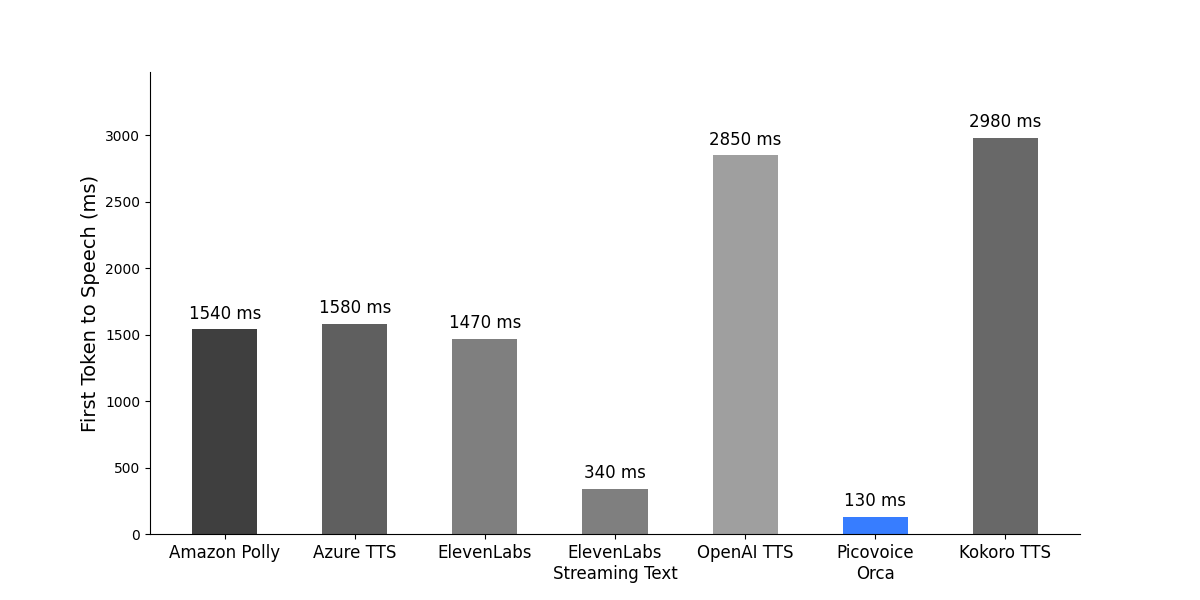
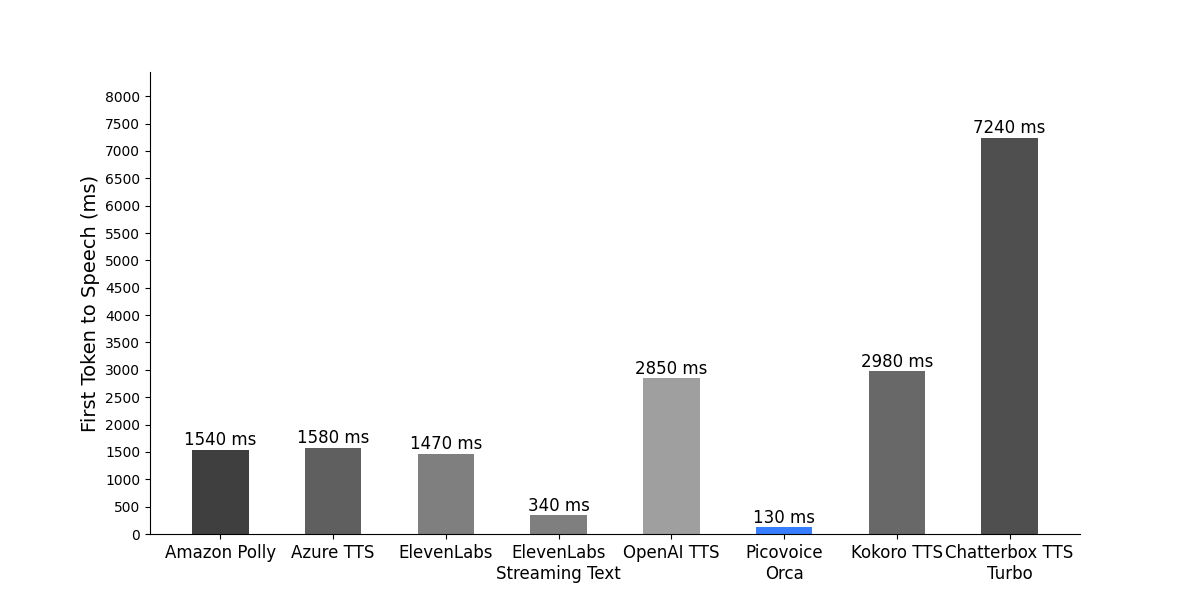
Added plot for Chatterbox-TTS-Turbo on Yogi.

diff --git a/plot_results.py b/plot_results.py
@@ -29,7 +29,8 @@ GREY4 = rgb_from_hex("#9F9F9F")
 GREY5 = rgb_from_hex("#BFBFBF")
 WHITE = rgb_from_hex("#FFFFFF")
 BLUE = rgb_from_hex("#377DFF")
-COLOR_X = rgb_from_hex("#686868")
+COLOR_KOKORO_TTS = rgb_from_hex("#686868")
+COLOR_CHATTERBOX_TTS_TURBO = rgb_from_hex("#4F4F4F")
 
 ENGINE_PRINT_NAMES = {
     Synthesizers.AMAZON_POLLY: 'Amazon Polly',
@@ -39,6 +40,7 @@ ENGINE_PRINT_NAMES = {
     Synthesizers.OPENAI_TTS: 'OpenAI TTS',
     Synthesizers.PICOVOICE_ORCA: 'Picovoice\nOrca',
     Synthesizers.KOKORO_TTS: "Kokoro TTS",
+    Synthesizers.CHATTERBOX_TTS_TURBO: "Chatterbox TTS\nTurbo",
 }
 
 ENGINE_COLORS = {
@@ -48,7 +50,8 @@ ENGINE_COLORS = {
     Synthesizers.ELEVENLABS_WEBSOCKET: GREY3,
     Synthesizers.OPENAI_TTS: GREY4,
     Synthesizers.PICOVOICE_ORCA: BLUE,
-    Synthesizers.KOKORO_TTS: COLOR_X,
+    Synthesizers.KOKORO_TTS: COLOR_KOKORO_TTS,
+    Synthesizers.CHATTERBOX_TTS_TURBO: COLOR_CHATTERBOX_TTS_TURBO,
 }
 
 
